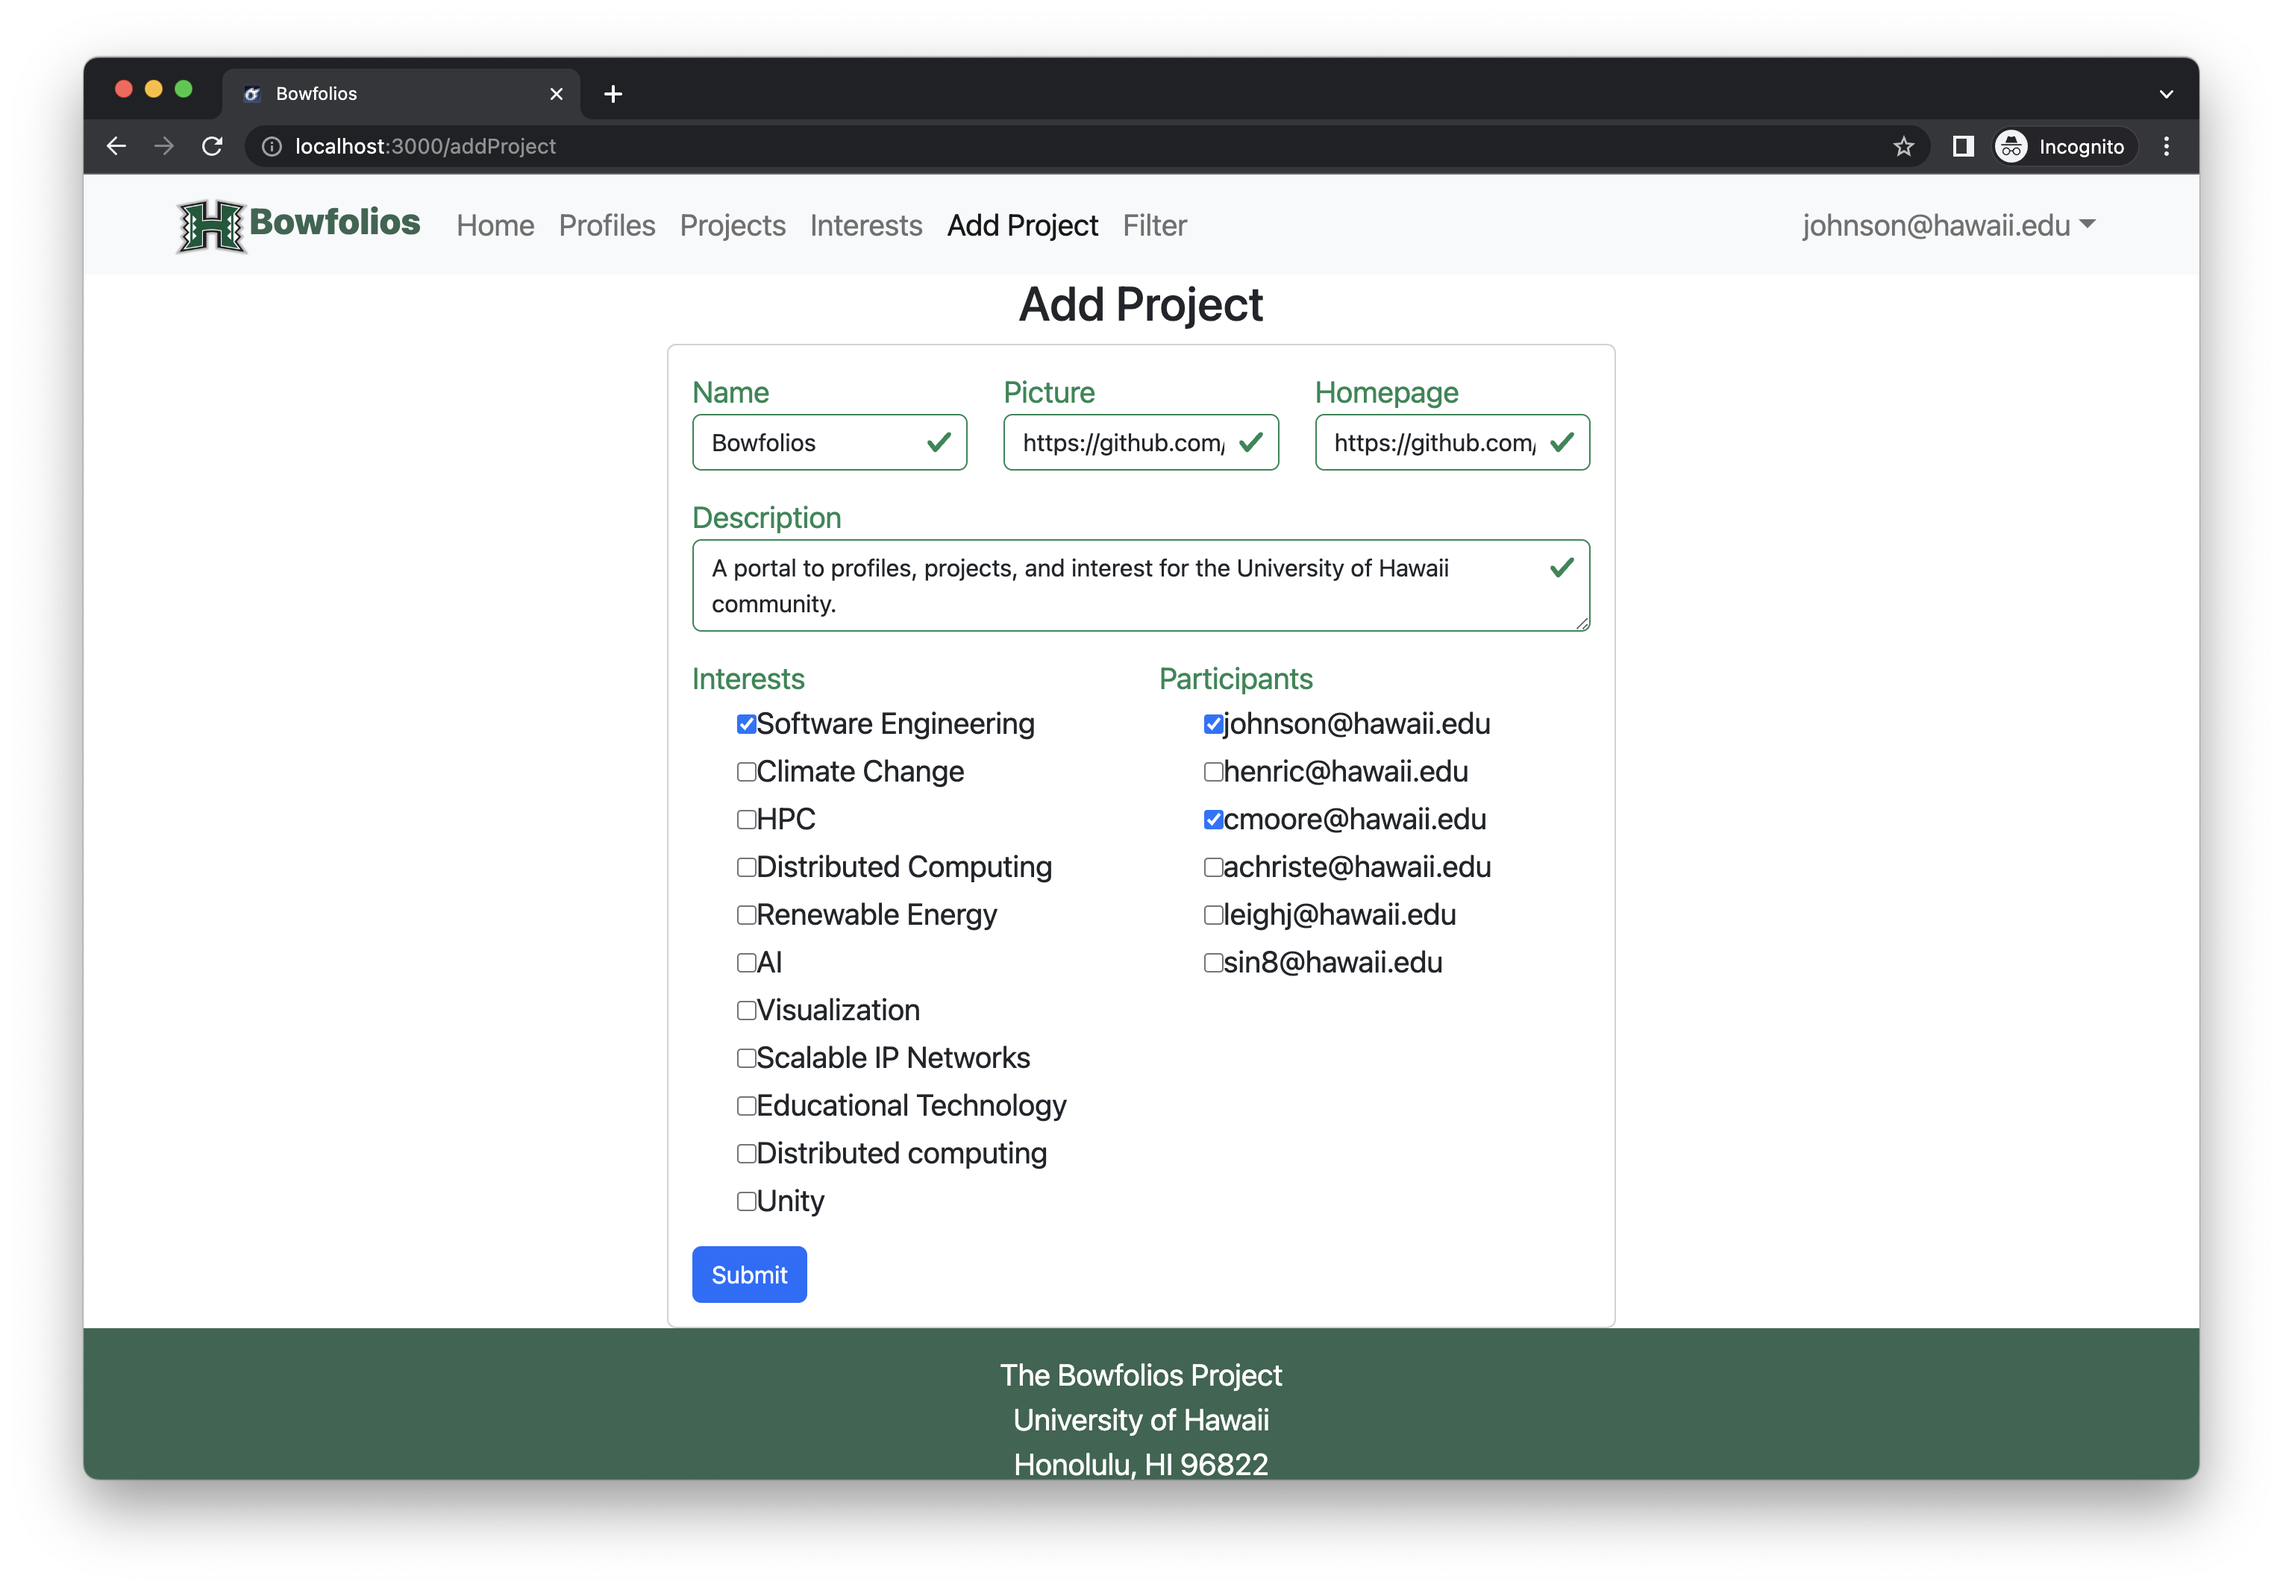
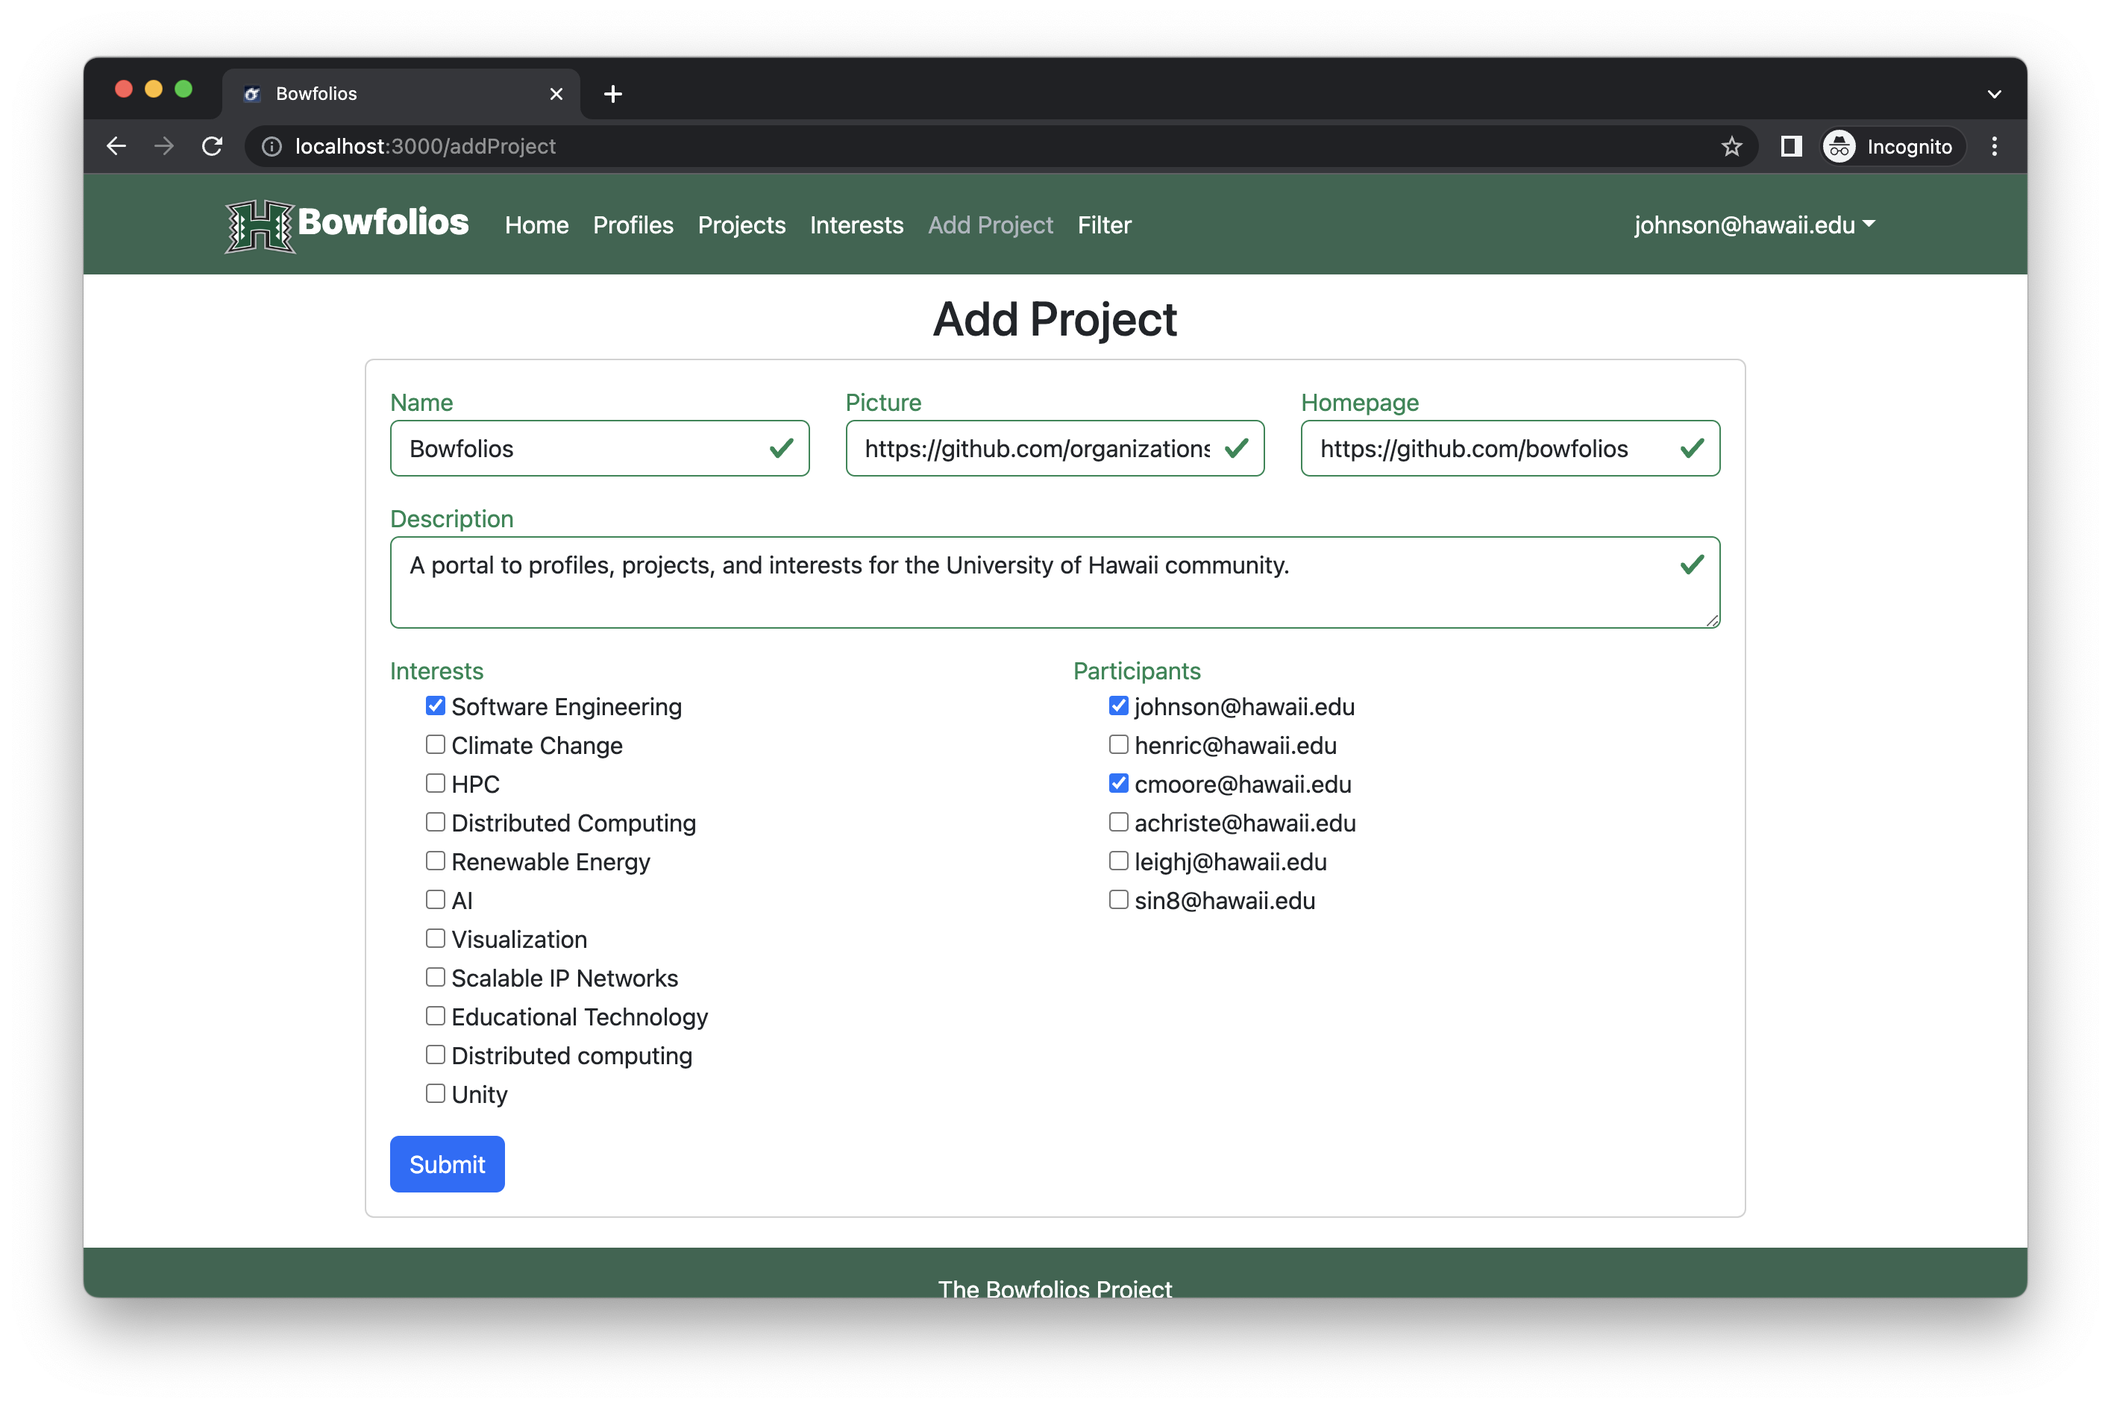
Added pictures and transform for the SelectFields

Changed region(s): [[0.0311, 0.0312, 0.964, 0.9375]]

diff --git a/app/imports/ui/pages/AddProject.jsx b/app/imports/ui/pages/AddProject.jsx
@@ -62,6 +62,7 @@ const AddProject = () => {
   const allParticipants = _.pluck(profiles, 'email');
   const formSchema = makeSchema(allInterests, allParticipants);
   const bridge = new SimpleSchema2Bridge(formSchema);
+  const transform = (label) => ` ${label}`;
   /* Render the form. Use Uniforms: https://github.com/vazco/uniforms */
   return ready ? (
     <Container style={pageStyle}>
@@ -79,10 +80,10 @@ const AddProject = () => {
                 <LongTextField id={ComponentIDs.addProjectFormDescription} name="description" placeholder="Describe the project here" />
                 <Row>
                   <Col xs={6} id={ComponentIDs.addProjectFormInterests}>
-                    <SelectField name="interests" showInlineError placeholder="Interests" multiple checkboxes />
+                    <SelectField name="interests" showInlineError placeholder="Interests" multiple checkboxes transform={transform} />
                   </Col>
                   <Col xs={6} id={ComponentIDs.addProjectFormParticipants}>
-                    <SelectField name="participants" showInlineError placeholder="Participants" multiple checkboxes />
+                    <SelectField name="participants" showInlineError placeholder="Participants" multiple checkboxes transform={transform} />
                   </Col>
                 </Row>
                 <SubmitField id={ComponentIDs.addProjectFormSubmit} value="Submit" />
